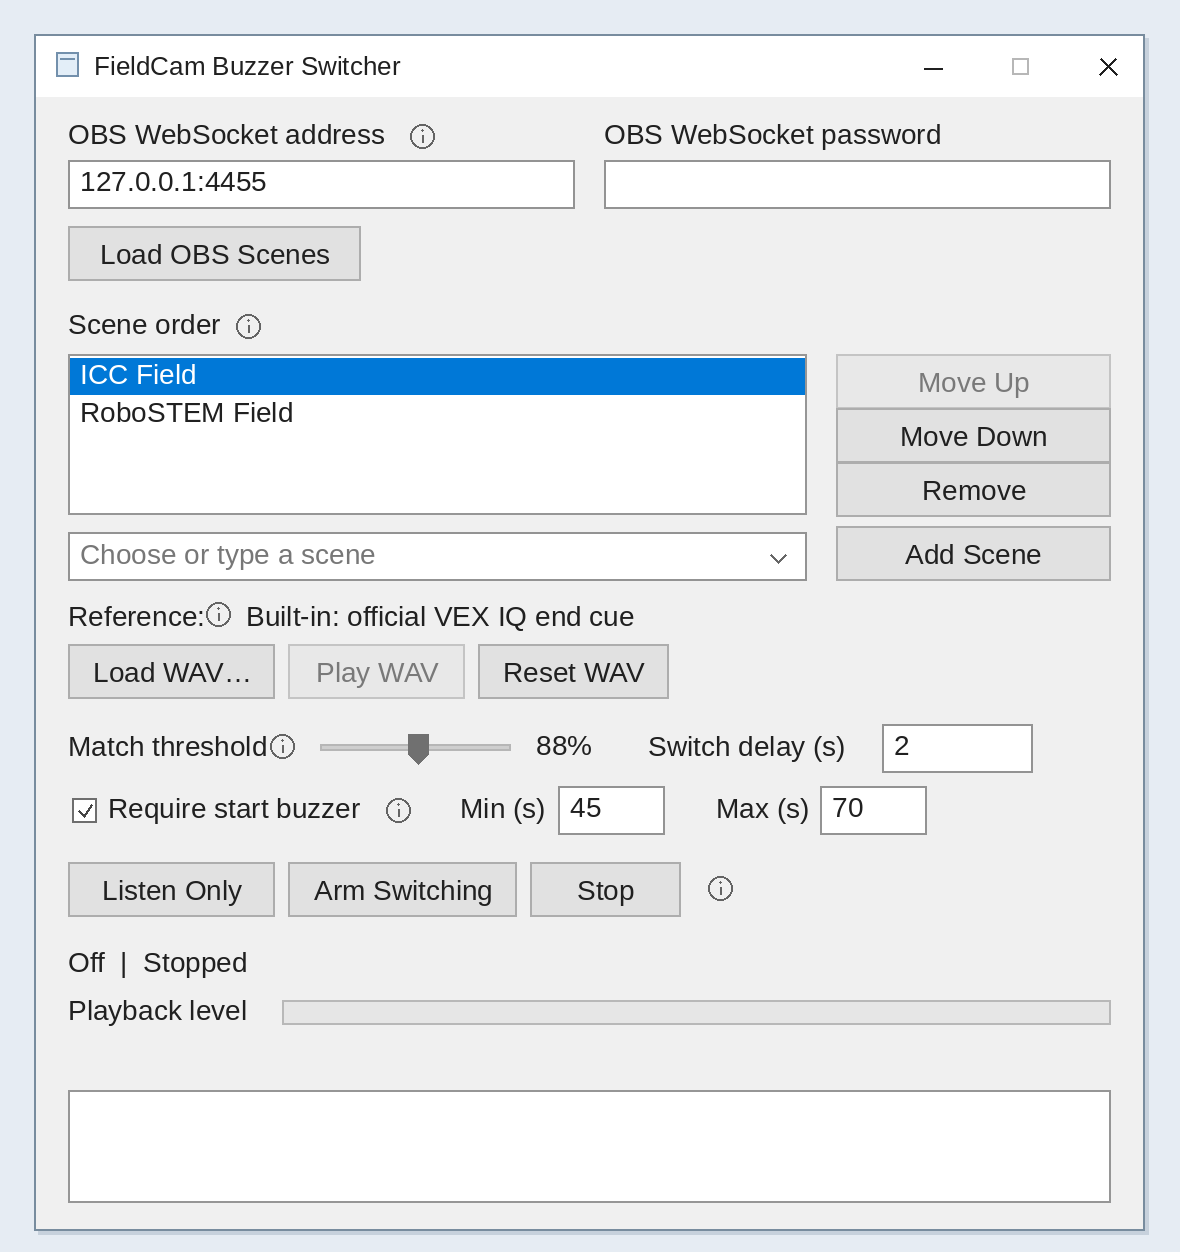
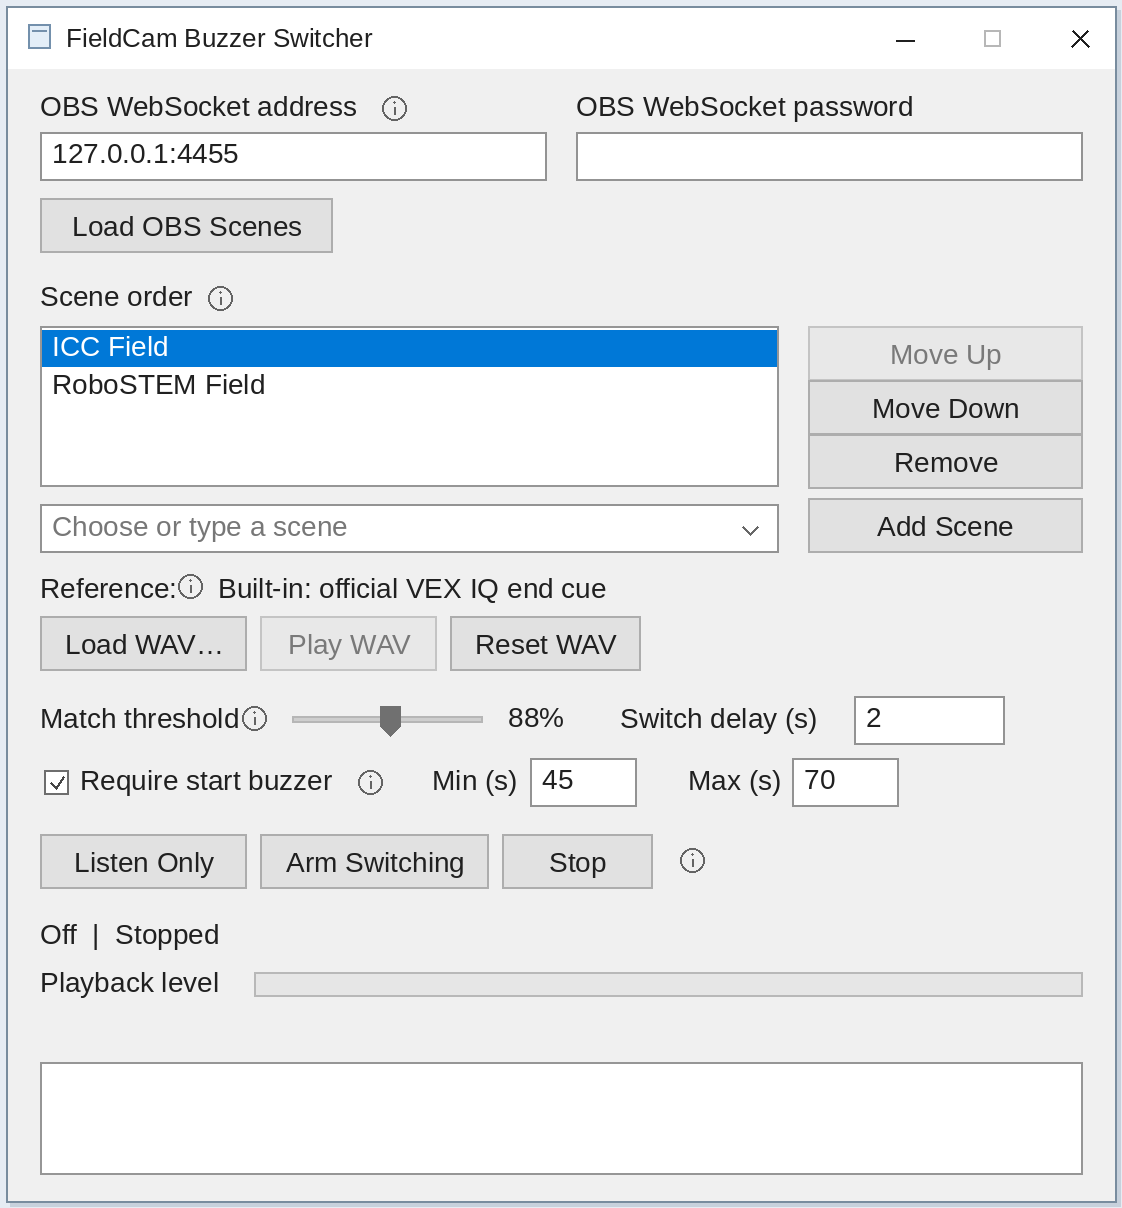
Polish the FieldCam README and preview

Changed region(s): [[0.0, 0.0, 1.0, 1.0], [0.8734, 0.582, 0.9046, 0.6126]]

diff --git a/README.md b/README.md
@@ -1,46 +1,35 @@
 <h1 align="center">FieldCam Buzzer Switcher</h1>
 <p align="center">Switch OBS field cameras when a VEX IQ match ends.</p>
-<p align="center"><a href="https://github.com/robostem-foundation/buzzer-switcher/releases"><strong>Windows releases</strong></a> · <a href="#quick-start">Quick start</a> · <a href="#build-from-source">Build from source</a></p>
-<p align="center"><sub>Windows 10/11 (x64) · OBS Studio 28 or later</sub></p>
-
 <p align="center">
-  <img src="docs/images/fieldcam-preview.png" width="490" alt="Layout preview of the FieldCam Windows app, showing OBS connection fields, scene order, buzzer settings, and Listen Only, Arm Switching, and Stop buttons">
+  <strong>Windows 10/11 (x64)</strong> · <strong>OBS Studio 28+</strong><br>
+  <a href="https://github.com/robostem-foundation/buzzer-switcher/releases">Windows releases</a> · <a href="docs/setup.md">Setup guide</a> · <a href="docs/release-notes.md">Release notes</a>
 </p>
-<p align="center"><sub>Layout preview, not a screenshot from Windows.</sub></p>
+<p align="center">
+  <img src="docs/images/fieldcam-preview.png" width="600" alt="FieldCam window preview with OBS connection, scene order, buzzer settings, and Listen Only, Arm Switching, and Stop buttons"><br>
+  <sub>Layout preview based on the Windows app.</sub>
+</p>
 
-## Quick start
+## Get started
 
-1. Download and extract the Windows ZIP. Open **FieldCam Buzzer Switcher.exe**. There's no installer. The EXE is unsigned.
-2. In OBS, open **Tools → WebSocket Server Settings** and enable the server. Keep authentication on. If OBS and FieldCam run on the same PC, use `127.0.0.1:4455` in FieldCam and enter the WebSocket password shown by OBS.
-3. Click **Load OBS Scenes**. Add your field scenes in match order. For two alternating fields, your list might be `ICC Field → RoboSTEM Field`. FieldCam wraps from the last scene back to the first.
-4. Click **Listen Only** before a full practice match. Look for **Start sound matched**, then **End sound matched**. Listen Only does not switch scenes.
-5. Put a field scene on OBS Program and click **Arm Switching** before the next start buzzer. Test it off-air first. OBS uses its current scene transition.
-
-> [!TIP]
-> If the level meter stays flat, check where Tournament Manager plays its sound. FieldCam listens to the default Windows playback device on the PC running FieldCam, not the OBS audio mixer or a microphone.
+1. Extract the Windows ZIP and open **FieldCam Buzzer Switcher.exe**. No installer is needed.
+2. In OBS, go to **Tools → WebSocket Server Settings** and enable the server. In FieldCam, use `127.0.0.1:4455` if OBS is on the same PC and uses the default port. Enter the OBS WebSocket password.
+3. Click **Load OBS Scenes** and put your field scenes in match order. Run a full practice match in **Listen Only**. Look for **Start sound matched** and **End sound matched** before you try **Arm Switching** off-air.
 
 ## What triggers a switch?
 
-| Setting | Default |
-| --- | --- |
-| Require start buzzer | On |
-| Time from start to end | 45–70 seconds |
-| Delay after the end buzzer | 2 seconds |
-| Match threshold | 88% |
+FieldCam advances to the next scene in your list and wraps back to the first. By default, it accepts an end buzzer only **45–70 seconds after the start buzzer**. The switch starts **two seconds after the end buzzer begins** and uses the transition already selected in OBS. Both timings are adjustable.
 
-An end buzzer outside the match window won't switch scenes. If you arm midway through a match, FieldCam waits for the next start buzzer. It also skips the switch if the live scene isn't in your list, and cancels if a different scene is live when the delay ends.
+Click **Stop** during Skills, breaks, or when your fields are out of order. FieldCam can't tell fields or match types apart if they use the same sounds. See the [setup guide](docs/setup.md) for the full test and default settings.
 
-FieldCam follows your scene order. It can't identify fields or tell Skills apart from teamwork if they use the same sounds. Hit **Stop** during breaks, Skills, or when matches don't follow the order you set.
+## Audio and settings
 
-## What it connects to
+FieldCam listens to the default Windows playback device, not the OBS mixer or a microphone. It processes audio on your PC without recording it. It uses installed Tournament Manager buzzer sounds when available, or built-in fingerprints. No TM API key is needed.
 
-FieldCam processes audio on your PC and doesn't record it. It doesn't connect to Tournament Manager or need a TM API key. It loads local `Start.wav` and `Stop.wav` from Tournament Manager when available and uses built-in sound fingerprints otherwise. No original buzzer recordings are included. You can load a custom end WAV.
-
-FieldCam keeps one OBS WebSocket connection open across switches. It saves your scene order and timing on exit, but not your password or armed state.
+FieldCam keeps one WebSocket connection open to OBS. It saves your scene order and timing, but never saves the OBS password or arms itself on startup.
 
 ## Build from source
 
-Use Go 1.24 or later. From PowerShell:
+Use Go 1.24 or later. From the repository root in PowerShell:
 
 ```powershell
 go test ./...
@@ -49,7 +38,5 @@ $env:GOARCH = 'amd64'
 $env:CGO_ENABLED = '0'
 go build -trimpath -ldflags="-H=windowsgui -s -w" -o "FieldCam Buzzer Switcher.exe" ./app
 ```
-
-The tests cover buzzer timing, scene order, and OBS WebSocket behavior. Audio capture uses Windows WASAPI loopback.
 
 An independent RoboSTEM Foundation project. Not affiliated with VEX Robotics or OBS Studio.
